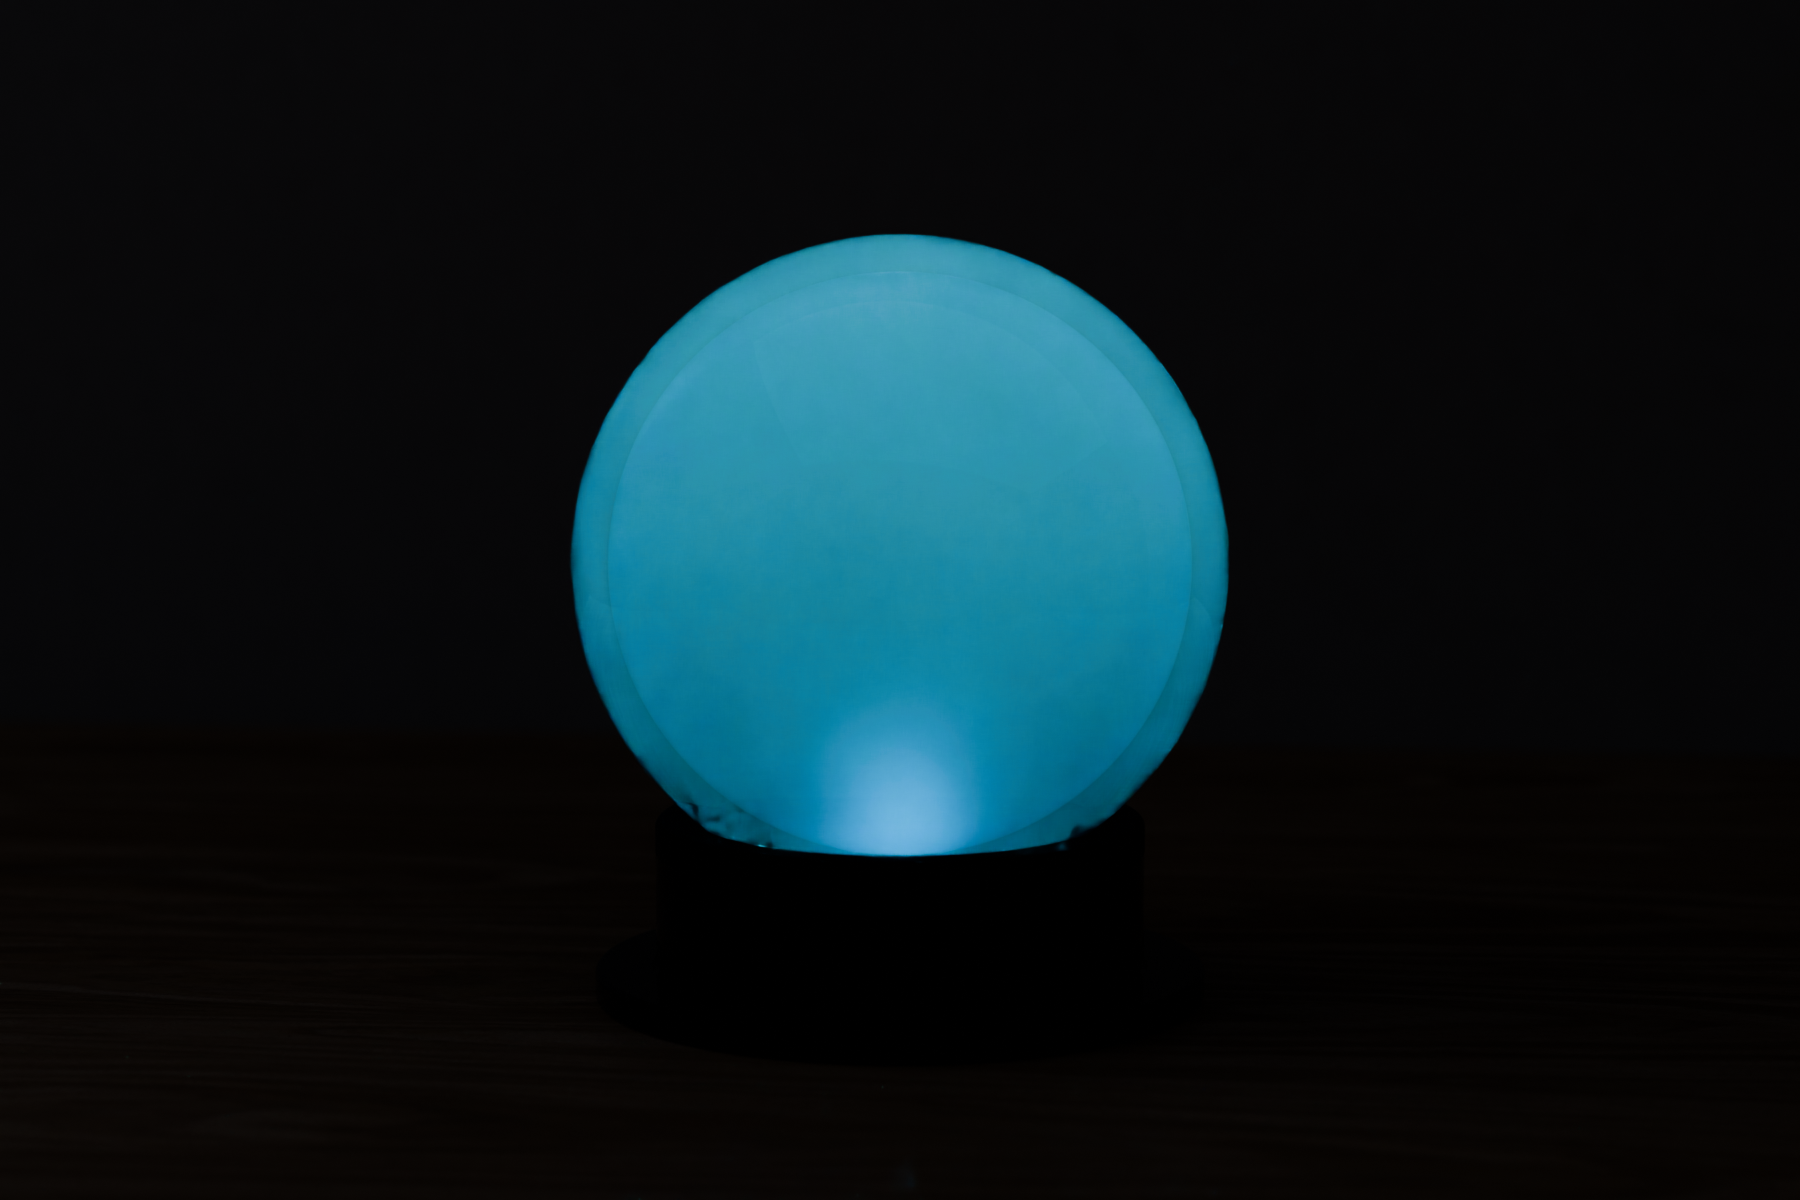
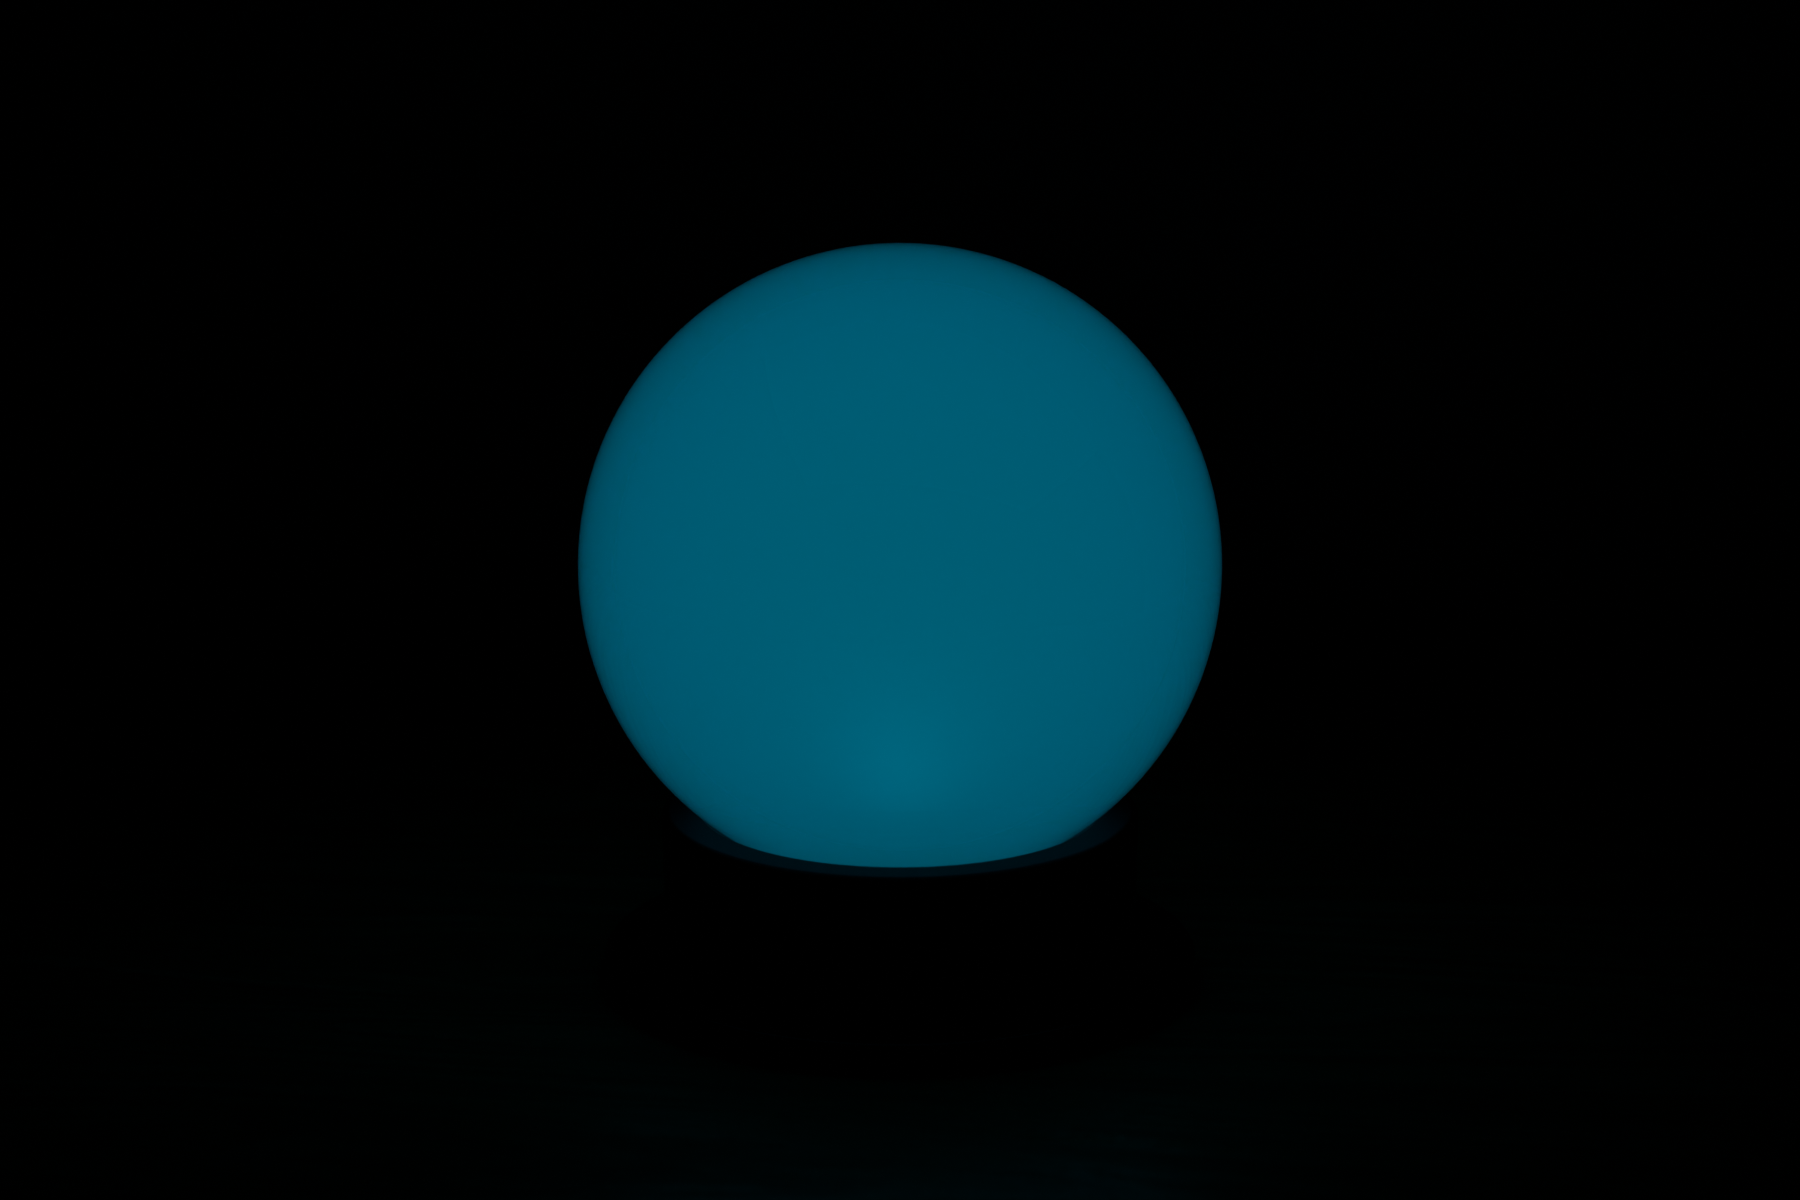
Core A night for item 89 (as drawn, the frost face the light at B's power, B's rig, camera and exposure); lamp_site.py, the honest site lamp pictures (each lamp at its real output on one scale, a paper sweep under real studio lights) and its first proxies
Claude-Session: https://claude.ai/code/session_01VCPNDaozJgar2mVTSvis3A

Changed region(s): [[0.3111, 0.185, 0.6844, 0.74]]

diff --git a/spinoffs/barkhorn/companions/lamp_site.py b/spinoffs/barkhorn/companions/lamp_site.py
@@ -1,0 +1,246 @@
+"""The site's lit lamp pictures, honest (the coordinator, 2026-11-09: the faked ones are pulled). Each lamp is lit by its
+own light at its real output, on one photometric scale, on a pale paper sweep lit by real studio lights; nothing hidden
+from the camera, from reflections or from view through the acrylic, nothing linked, every part casting shadows.
+
+    python3.11 spinoffs/barkhorn/companions/lamp_site.py FRAME [--samples N] [--scale S]
+
+FRAME:
+    dome-<colour>   Hemisphere lit, 1600 x 2000 (4:5)          lamps-domes   the eight in a row, 2400 x 800 (3:1)
+    orb-<colour>    Core lit (as drawn: frosted inside), 4:5     lamps-orbs    the eight in a row, 2400 x 800
+<colour> is the site's key: red amber? see COLOURS. Output: renders/2026-11-09/barkhorn/lamp-site/FRAME.png.
+Env: LAMP_OUT (output path), STUDIO (scale of every studio light, default 1), AUDIT=1 (the card audit, no render).
+
+The lamps as drawn: Hemisphere v3 (a 3 mm stock tint R 100-97, a 6 mm clear shell R 96-90, the opal liner R 89-86, its
+edge 4 inside the rim, the CAD's rim, collar and hub; the liner the CAD's neutral opal), its Bridgelux Vero SE 10 at
+2700 K; Core A (one 9 mm tinted ball, its inside bead-blasted, the 40 port over the window) on its signed dock, its LED
+at 2700 K (the warm end of its warm-dim range).
+
+One photometric scale (lamp_pictures.py, round 13): 0.0065 W of Blender power for each lumen.
+  Hemisphere: ~575 lm at the COB (crystal.py), 85 % out: ~490 lm down through the mouth (a 0.17 m disc at the mouth,
+  92 deg spread, 3.2 W), and the reflector's spill, a quarter (145 lm), out through the liner (its lit face, ruling 3's
+  exception: 11.5 W/m2 on average over its 0.041 m2 outer face, both ways, brighter at the crown).
+  Core: ~620 lm, ~560 lm out of the ball (3.6 W), as the lit frosted face (ruling 3's exception): 28.7 W/m2 on its
+  0.0633 m2, both ways, its colour through the whole 9 mm wall.
+The thin shells pass shadow rays at their own transmission (lamp_pictures.thin_shadow), so the lamps light the set.
+"""
+import math, os, sys
+
+HERE = os.path.dirname(os.path.abspath(__file__))
+ROOT = os.path.abspath(os.path.join(HERE, '..', '..', '..'))
+OUT = os.path.join(ROOT, 'renders', '2026-11-09', 'barkhorn', 'lamp-site')
+WLM = 3.2 / 490.0                                     # Blender W per lumen (the one scale)
+CCT = 2700
+# the site's colour keys (web.py HABITAT) to the tints
+COLOURS = {'red': 'Ember', 'orange': 'Dust', 'amber': 'Acid', 'green': 'Poison', 'blue': 'Ice', 'violet': 'Haze',
+           'ice': 'Fog', 'black': 'Smoke dark'}
+ROW = ['red', 'orange', 'amber', 'green', 'blue', 'violet', 'ice', 'black']        # spectrum order, Ember to Smoke
+
+
+def blackbody(T):
+    sys.path.insert(0, HERE)
+    import lamp_pictures as LP
+    return LP.blackbody(T)
+
+
+def build(frame, samples, scale):
+    import bpy, bmesh
+    from mathutils import Vector
+    sys.path.insert(0, os.path.join(HERE, 'strata'))
+    import scene as SC
+    bpy.ops.wm.read_factory_settings(use_empty=True)
+    MM = SC.MM
+    bb = blackbody(CCT)
+    kind0 = {'lamps-domes': 'dome', 'lamps-orbs': 'orb'}.get(frame, frame.split('-')[0])   # a row as its hero
+    # the studio's brightness and the exposure move together, so the paper holds its tone while the lamp, at its real
+    # output, comes out of clipping: a brighter studio, one scale
+    K = float(os.environ.get('STUDIO', {'dome': '2.0', 'orb': '8.0', 'lamps': '4.0'}[kind0]))
+    EVD = {'dome': '-1.0', 'orb': '-3.0', 'lamps': '-2.0'}[kind0]
+
+    def acrylic(nm, rough, tname, loading=1.0):
+        return SC.acrylic_material(nm, [(-1e4, 1e4, tname)], rough, 'polished', loading=loading, scratch=0.0, bond=False)
+
+    def shell_T(tint, loading, mm):
+        return tuple(math.exp(-a * mm / 1000.0) * 0.96 for a in SC.absorption(tint, loading))
+
+    def thin_shadow(m, T):
+        nt = m.node_tree; outn = next(n for n in nt.nodes if n.type == 'OUTPUT_MATERIAL')
+        prev = outn.inputs['Surface'].links[0].from_node
+        lp = nt.nodes.new('ShaderNodeLightPath'); tb = nt.nodes.new('ShaderNodeBsdfTransparent')
+        tb.inputs['Color'].default_value = (*T, 1); mx = nt.nodes.new('ShaderNodeMixShader')
+        nt.links.new(lp.outputs['Is Shadow Ray'], mx.inputs[0]); nt.links.new(prev.outputs[0], mx.inputs[1])
+        nt.links.new(tb.outputs[0], mx.inputs[2]); nt.links.new(mx.outputs[0], outn.inputs['Surface'])
+        return m
+
+    def add_emission(m, color, strength_node_or_value):
+        nt = m.node_tree; outn = next(n for n in nt.nodes if n.type == 'OUTPUT_MATERIAL')
+        prev = outn.inputs['Surface'].links[0].from_node
+        em = nt.nodes.new('ShaderNodeEmission'); em.inputs['Color'].default_value = (*color, 1)
+        if isinstance(strength_node_or_value, (int, float)):
+            em.inputs['Strength'].default_value = strength_node_or_value
+        else:
+            nt.links.new(strength_node_or_value, em.inputs['Strength'])
+        ad = nt.nodes.new('ShaderNodeAddShader')
+        nt.links.new(prev.outputs[0], ad.inputs[0]); nt.links.new(em.outputs[0], ad.inputs[1])
+        nt.links.new(ad.outputs[0], outn.inputs['Surface'])
+        m.cycles.emission_sampling = 'FRONT_BACK'
+        return m
+
+    def sphere(nm, r, c, mat, inward=False, cut=None, hole=None, hole_below=None):
+        bm = bmesh.new()
+        bmesh.ops.create_uvsphere(bm, u_segments=256, v_segments=128, radius=r * MM)
+        if cut is not None:
+            bmesh.ops.delete(bm, geom=[v for v in bm.verts if v.co.z < cut * MM - 1e-9], context='VERTS')
+        if hole is not None:
+            bmesh.ops.delete(bm, geom=[v for v in bm.verts if math.hypot(v.co.x, v.co.y) < hole * MM and v.co.z > 0],
+                             context='VERTS')
+        if hole_below is not None:
+            bmesh.ops.delete(bm, geom=[v for v in bm.verts if math.hypot(v.co.x, v.co.y) < hole_below * MM and v.co.z < 0],
+                             context='VERTS')
+        if inward:
+            bmesh.ops.reverse_faces(bm, faces=bm.faces)
+        for f in bm.faces:
+            f.smooth = True
+        me = bpy.data.meshes.new(nm); bm.to_mesh(me); bm.free()
+        ob = bpy.data.objects.new(nm, me); bpy.context.scene.collection.objects.link(ob)
+        ob.location = c; me.materials.append(mat)
+        return ob
+
+    def part(folder, name, mat, at):
+        ob = SC.stl(os.path.join(HERE, folder, 'stl', name + '.stl'), mat, name)
+        ob.location = (ob.location[0] + at[0], ob.location[1] + at[1], ob.location[2] + at[2])
+        return ob
+
+    black_acrylic = SC.principled('black-acrylic', '#0A0A0B', 0.04)
+    an = SC.anodised()
+    steel = SC.principled('steel', '#C9C9C6', 0.25, 1.0, bump=(2500.0, 0.6))
+    cap = SC.principled('cap', '#3A3A3E', 0.45, metallic=0.3, bump=(4000.0, 0.15))
+
+    def hemisphere(tint, x, rim_z, y=0.0):
+        """Hemisphere v3 as drawn, lit, its rim's centre at (x, y, rim_z)."""
+        tname = COLOURS[tint]
+        c = (x, y, rim_z); H = 48.2
+        Tt, Tc = shell_T(tname, 1.0, 1.5), shell_T('Clear', 1.0, 3.0)
+        sphere(f'tint-{tint}', 100.0, c, thin_shadow(acrylic(f'tint-{tint}', 0.0, tname), Tt), cut=0.0, hole=H)
+        sphere(f'tint-in-{tint}', 97.0, c, thin_shadow(acrylic(f'tint-in-{tint}', 0.0, tname), Tt), inward=True, cut=0.0, hole=H)
+        sphere(f'clear-{tint}', 96.0, c, thin_shadow(acrylic(f'clear-{tint}', 0.0, 'Clear'), Tc), cut=4.0, hole=H)
+        sphere(f'clear-in-{tint}', 90.0, c, thin_shadow(acrylic(f'clear-in-{tint}', 0.0, 'Clear'), Tc), inward=True, cut=4.0, hole=H)
+        oc_ = (0.93, 0.93, 0.92)                      # the CAD's neutral opal
+        def opal(nm):
+            m = bpy.data.materials.new(nm); m.use_nodes = True; nt = m.node_tree; nt.nodes.clear()
+            o = nt.nodes.new('ShaderNodeOutputMaterial'); tr = nt.nodes.new('ShaderNodeBsdfTranslucent')
+            gl = nt.nodes.new('ShaderNodeBsdfGlossy'); gl.inputs['Roughness'].default_value = 0.08
+            df = nt.nodes.new('ShaderNodeBsdfDiffuse'); m1 = nt.nodes.new('ShaderNodeMixShader'); m1.inputs[0].default_value = 0.5
+            m2 = nt.nodes.new('ShaderNodeMixShader'); m2.inputs[0].default_value = 0.06
+            tr.inputs['Color'].default_value = (*oc_, 1); df.inputs['Color'].default_value = (*(v * 0.97 for v in oc_), 1)
+            nt.links.new(df.outputs[0], m1.inputs[1]); nt.links.new(tr.outputs[0], m1.inputs[2])
+            nt.links.new(m1.outputs[0], m2.inputs[1]); nt.links.new(gl.outputs[0], m2.inputs[2]); nt.links.new(m2.outputs[0], o.inputs['Surface'])
+            return m
+        oc = 4.0
+        lit = opal(f'opal-lit-{tint}'); nt = lit.node_tree
+        S0 = 145.0 * WLM / (2 * 0.041)
+        tc = nt.nodes.new('ShaderNodeTexCoord'); sx = nt.nodes.new('ShaderNodeSeparateXYZ'); nt.links.new(tc.outputs['Object'], sx.inputs[0])
+        gz = nt.nodes.new('ShaderNodeMapRange'); gz.clamp = True
+        gz.inputs['From Min'].default_value = oc * MM; gz.inputs['From Max'].default_value = 0.075
+        gz.inputs['To Min'].default_value = 0.6 * S0; gz.inputs['To Max'].default_value = 1.4 * S0
+        nt.links.new(sx.outputs['Z'], gz.inputs['Value'])
+        add_emission(lit, tuple(bb[i] * oc_[i] for i in range(3)), gz.outputs['Result'])
+        sphere(f'opal-{tint}', 89.0, c, lit, cut=oc, hole=H)
+        sphere(f'opal-in-{tint}', 86.0, c, opal(f'opal-in-{tint}'), inward=True, cut=oc, hole=H)
+        part('out-dome-pendant', 'rim', acrylic(f'rim-{tint}', 0.6, tname, 0.5), c)
+        for nm in ('collar', 'clamp', 'crown', 'gland', 'hub'):
+            part('out-dome-pendant', nm, cap, c)
+        part('out-dome-pendant', 'ring', SC.principled('peek', '#151515', 0.6), c)
+        part('out-dome-pendant', 'pins', steel, c)
+        part('out-dome-pendant', 'gaskets', SC.principled('silicone', '#111111', 0.7), c)
+        part('out-dome-pendant', 'reflector', steel, c)
+        part('out-dome-pendant', 'cord', SC.principled('braid', '#121212', 0.75, bump=(1200.0, 0.5)), c)
+        ld = bpy.data.lights.new(f'cob-{tint}', 'AREA'); ld.shape = 'DISK'; ld.size = 0.17; ld.energy = 490.0 * WLM
+        ld.spread = math.radians(92.0); ld.color = bb
+        ob = bpy.data.objects.new(f'cob-{tint}', ld); bpy.context.scene.collection.objects.link(ob)
+        ob.location = (x, y, rim_z + 0.004)
+
+    def core(tint, x, floor_z, y=0.0, rot=0.0):
+        """Core A as drawn, on its dock, lit, the dock's underside on floor_z at (x, y)."""
+        tname = COLOURS[tint]
+        z0 = floor_z + 0.0065                         # the dock's underside on the floor (as lamp_pictures: the CAD's
+                                                      # dock underside sits 6.5 below its origin)
+        objs = []
+        for nm, m in (('dock', black_acrylic), ('base', black_acrylic), ('ring', an), ('seat', SC.principled('si', '#111111', 0.6)),
+                      ('dock-cable', SC.principled('braid', '#121212', 0.75, bump=(1200.0, 0.5))), ('grommet', an)):
+            objs.append(part('out-orb-table', nm, m, (x, y, z0)))
+        zc = z0 + 100.45 * MM
+        T9 = shell_T(tname, 1 / 3, 9.0)
+        sphere(f'ball-{tint}', 80.0, (x, y, zc), thin_shadow(acrylic(f'ball-{tint}', 0.0, tname, 1 / 3), (0.96, 0.96, 0.96)), hole_below=20.0)
+        fm = acrylic(f'frost-{tint}', 0.6, tname, 1 / 3)
+        nt = fm.node_tree; outn = next(n for n in nt.nodes if n.type == 'OUTPUT_MATERIAL'); glass = outn.inputs['Surface'].links[0].from_node
+        tl = nt.nodes.new('ShaderNodeBsdfTranslucent'); tl.inputs['Color'].default_value = (0.9, 0.9, 0.9, 1)
+        mx = nt.nodes.new('ShaderNodeMixShader'); mx.inputs[0].default_value = 0.5
+        nt.links.new(glass.outputs[0], mx.inputs[1]); nt.links.new(tl.outputs[0], mx.inputs[2]); nt.links.new(mx.outputs[0], outn.inputs['Surface'])
+        S = 560.0 * WLM / (2 * 0.0633)
+        add_emission(fm, tuple(bb[i] * T9[i] / 0.96 for i in range(3)), S)
+        sphere(f'frost-{tint}', 71.0, (x, y, zc), fm, inward=True, hole_below=20.0)
+        if rot:
+            for o in objs:   # turn the dock's cable away from the camera, about the lamp's axis (the parts' origin)
+                o.rotation_euler[2] = math.radians(rot)
+
+    # --- the set: a pale paper sweep (floor, cove, back) and real studio lights out of frame, unlinked ---------------
+    paper = SC.principled('paper', '#EDE8E1', 0.9)
+    bm = bmesh.new(); Wd = 6.0; R = 0.6; yb = 1.0          # the floor to y = yb - R, a cove of radius R, the back at y = yb
+    verts = []
+    prof = [(-3.0, 0.0), (yb - R, 0.0)] + [(yb - R + R * math.sin(a), R - R * math.cos(a)) for a in [i * math.pi / 2 / 16 for i in range(1, 17)]] + [(yb, 3.0)]
+    for (py, pz) in prof:
+        verts.append((bm.verts.new((-Wd / 2, py, pz)), bm.verts.new((Wd / 2, py, pz))))
+    for i in range(len(verts) - 1):
+        a, b = verts[i], verts[i + 1]
+        bm.faces.new((a[0], a[1], b[1], b[0]))
+    for f in bm.faces:
+        f.smooth = True
+    me = bpy.data.meshes.new('sweep'); bm.to_mesh(me); bm.free()
+    so = bpy.data.objects.new('sweep', me); bpy.context.scene.collection.objects.link(so); me.materials.append(paper)
+    SC.world(color='#C8C4BE', strength=0.02 * K)
+    key = SC.area('key', (-1.4, -1.6, 1.9), (0, 0, 0), (1.2, 1.2), 60.0 * K, '#FFF4E8'); key.data.shape = 'ELLIPSE'
+    key.rotation_euler = (Vector((0, 0.1, 0.5)) - key.location).to_track_quat('-Z', 'Y').to_euler()
+    fill = SC.area('fill', (1.8, -1.2, 1.2), (0, 0, 0), (1.6, 1.6), 20.0 * K, '#EEF2F8'); fill.data.shape = 'ELLIPSE'
+    fill.rotation_euler = (Vector((0, 0.1, 0.4)) - fill.location).to_track_quat('-Z', 'Y').to_euler()
+
+    # --- the frames ---------------------------------------------------------------------------------------------
+    kind, _, tint = frame.partition('-')
+    if frame == 'lamps-domes':
+        W, H = 2400, 800
+        for i, t in enumerate(ROW):
+            hemisphere(t, (i - 3.5) * 0.30, 0.42, y=0.0)
+        cam = ((0.0, -3.9, 0.62), (0.0, 0.0, 0.40), 50.0)   # the eight with room, their pools on the paper
+    elif frame == 'lamps-orbs':
+        W, H = 2400, 800
+        for i, t in enumerate(ROW):
+            core(t, (i - 3.5) * 0.22, 0.0)
+        cam = ((0.0, -5.0, 0.55), (0.0, 0.0, 0.12), 85.0)
+    elif kind == 'dome':
+        W, H = 1600, 2000
+        hemisphere(tint, 0.0, 0.50)                    # the rim 500 above the paper: the dome and its pool in one frame
+        cam = ((0.08, -1.25, 0.45), (0.0, 0.0, 0.36), 50.0)
+    elif kind == 'orb':
+        W, H = 1600, 2000
+        core(tint, 0.0, 0.0)
+        cam = ((0.10, -0.95, 0.22), (0.0, 0.0, 0.11), 70.0)
+    else:
+        raise SystemExit('unknown frame ' + frame)
+    SC.render_settings(W, H, samples, scale, exposure=float(os.environ.get('EV', EVD)), look='AgX - Medium High Contrast')
+    sc = bpy.context.scene
+    sc.cycles.caustics_refractive = True; sc.cycles.sample_clamp_indirect = 20.0; sc.cycles.blur_glossy = 1.0
+    SC.camera(cam[0], cam[1], lens=cam[2], fstop=8.0)
+    if os.environ.get('AUDIT'):
+        hidden = [o for o in sc.objects if o.type == 'MESH' and not o.visible_camera]
+        print('AUDIT', frame, 'hidden', [o.name for o in hidden],
+              'no-shadow', [o.name for o in sc.objects if o.type == 'MESH' and not o.visible_shadow],
+              'lights', [(o.name, o.data.type, round(o.data.energy, 3)) for o in sc.objects if o.type == 'LIGHT'])
+        return
+    os.makedirs(OUT, exist_ok=True)
+    sc.render.filepath = os.environ.get('LAMP_OUT') or os.path.join(OUT, frame + '.png')
+    bpy.ops.render.render(write_still=True)
+
+
+if __name__ == '__main__':
+    a = sys.argv[sys.argv.index('--') + 1:] if '--' in sys.argv else sys.argv[1:]
+    build(a[0], int(a[a.index('--samples') + 1]) if '--samples' in a else 256,
+          float(a[a.index('--scale') + 1]) if '--scale' in a else 1.0)
